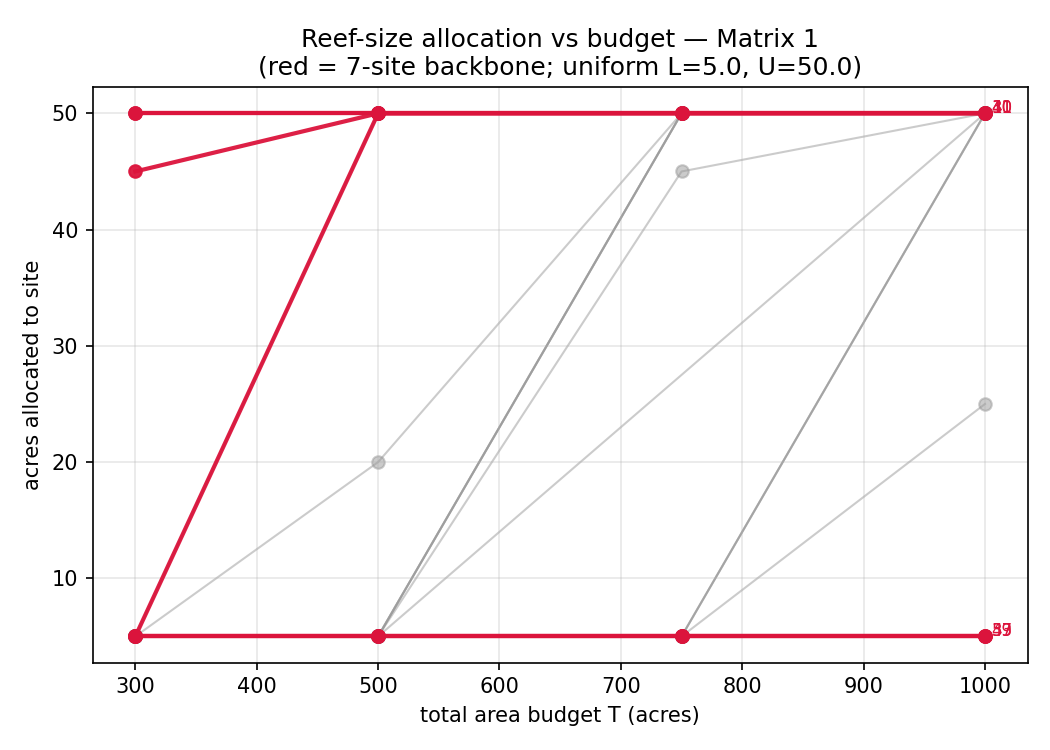
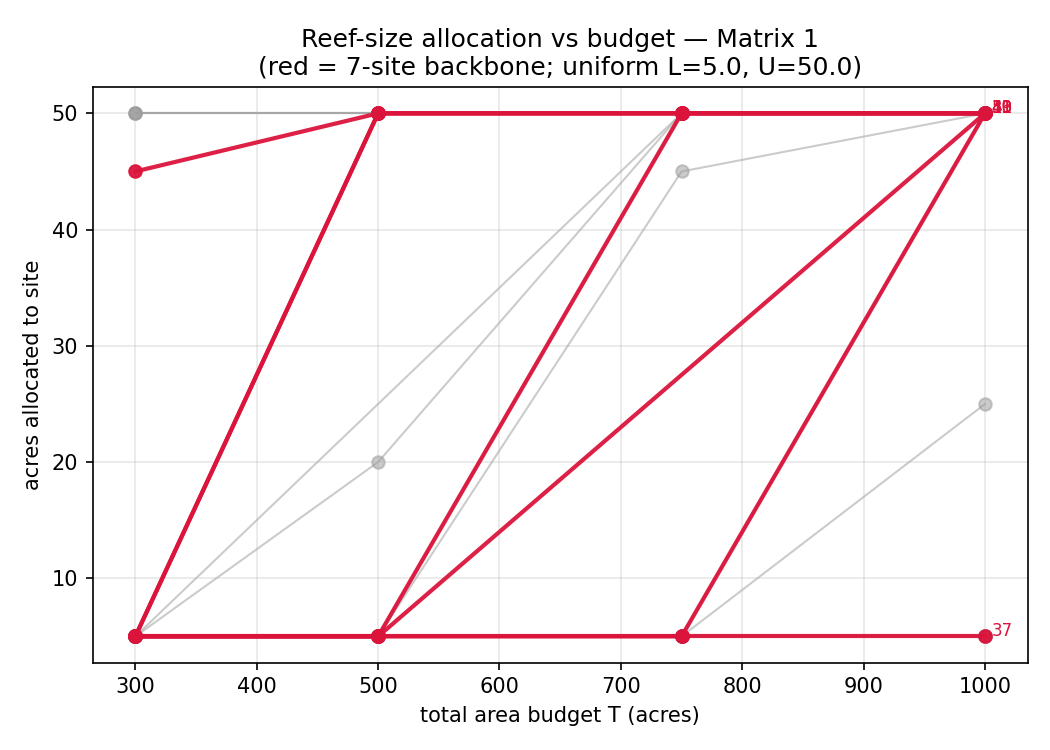
added experiments with external flow on--surrogate

diff --git a/scripts/surrogate_fidelity.py b/scripts/surrogate_fidelity.py
@@ -1,0 +1,173 @@
+# scripts/surrogate_fidelity.py
+#
+# Surrogate-fidelity experiments for the ORSSP paper.
+#
+#   1. CONSTANT Pe: score the MIQP-selected set under the true JARS ODE F(S),
+#      compare to the best ODE heuristic.
+#
+#   2. REALISTIC (site-specific) Pe: three ways to weight the source term
+#      W[l,k] = P[l,k] * A_l^1.72:
+#         (a) frozen single A_*                        -- current surrogate
+#         (b) site-specific A_l, ISOLATED candidate    -- knowable a priori
+#         (c) site-specific A_l, ALL-49 metapopulation -- CIRCULAR (uses the ODE
+#                                                         answer); upper bound only
+#
+#   3. A_* sensitivity: does the MIQP selection change with A_*?
+#
+#   4. ITERATED surrogate (RECOMMENDED for realistic Pe):
+#         A_l <- isolated densities
+#         repeat: solve MIQP -> run ODE on THAT selected set -> read the actual
+#                 A_l for the selected sites -> re-weight -> re-solve
+#      Non-circular: each A_l comes from a set the surrogate itself chose, not
+#      from a pre-computed all-49 solve. Converges in 1-2 passes.
+#
+# Run from the repo root:
+#   python -m scripts.surrogate_fidelity
+
+import numpy as np
+import config
+from src.model.jars_ode import load_connectivity, sitetoindex, odesys, setP0
+from scipy.integrate import solve_ivp
+from scipy.optimize import milp, LinearConstraint, Bounds
+from scipy.sparse import lil_matrix
+
+BEST_HEUR_CONST = {
+    "M1": [10,12,15,16,17,20,21,26,28,29,31,32,33,36,37,40,41,44,47,49,51,52,53,54,59],
+    "M2": [10,11,12,15,16,17,19,20,26,29,31,32,33,36,37,40,41,44,47,49,51,52,53,54,59],
+}
+BEST_HEUR_REAL = {
+    "M1": [4,6,10,15,19,20,21,24,27,30,31,32,36,37,38,39,40,41,47,49,51,52,53,55,60],
+    "M2": [1,4,6,10,18,19,20,21,24,30,31,35,36,37,38,39,40,41,42,47,49,53,55,57,60],
+}
+
+
+def _prep(mid):
+    conn, key = load_connectivity(config.MATRICES[mid])
+    m = ~np.isin(key, config.UNWANTED)
+    return key[m], conn[np.ix_(m, m)] * config.P1SCALING
+
+
+def solve_miqp(mid, source_weight, Pe, K=25):
+    lab, P = _prep(mid); n = len(lab)
+    W = P * source_weight[:, None]
+    lin = Pe + np.diag(W)
+    pairs = [(i, j) for i in range(n) for j in range(n) if i != j and W[i, j] != 0]
+    nv = n + len(pairs); c = np.zeros(nv); c[:n] = -lin
+    for p, (i, j) in enumerate(pairs):
+        c[n + p] = -W[i, j]
+    cons = [LinearConstraint(lil_matrix(np.r_[np.ones(n), np.zeros(len(pairs))].reshape(1, -1)), K, K)]
+    Ay = lil_matrix((2 * len(pairs), nv))
+    for p, (i, j) in enumerate(pairs):
+        Ay[2*p, n+p] = 1; Ay[2*p, i] = -1
+        Ay[2*p+1, n+p] = 1; Ay[2*p+1, j] = -1
+    cons.append(LinearConstraint(Ay, -np.inf, 0))
+    ig = np.zeros(nv); ig[:n] = 1
+    r = milp(c=c, constraints=cons, integrality=ig,
+             bounds=Bounds(np.zeros(nv), np.ones(nv)), options={"time_limit": 180})
+    return sorted(int(lab[i]) for i in range(n) if r.x[i] > 0.5)
+
+
+def ode_on(sites, mid, pe_mode, tmax=1000):
+    """Return (F(S), {site: equilibrium adult density}) for the selected set."""
+    conn, key = load_connectivity(config.MATRICES[mid])
+    idx = sitetoindex(key, np.array(sites, int)); n = len(idx)
+    P1 = config.P1SCALING * conn[np.ix_(idx, idx)]
+    P0 = config.CONST_P0 * np.ones(n) if pe_mode == "constant" else setP0(key[idx])
+    v0 = np.zeros(4*n); v0[n:2*n] = config.IC["A"]; v0[2*n:3*n] = config.IC["R"]
+    sol = solve_ivp(lambda t, v: odesys(t, v, P0, P1, config.MU*np.ones(n)),
+                    [0, tmax], v0, method="RK45", rtol=1e-6)
+    Af = np.maximum(sol.y[n:2*n, -1], 0.0)
+    return float(Af.sum()), {int(key[idx][i]): float(Af[i]) for i in range(n)}
+
+
+def isolated_A(mid, pe_mode):
+    """Each candidate's equilibrium adult density run ALONE (self-recruitment only)."""
+    lab, P = _prep(mid); vals = []
+    for i, s in enumerate(lab):
+        P1 = np.array([[P[i, i]]])
+        P0 = np.array([config.CONST_P0]) if pe_mode == "constant" else setP0(np.array([s])).astype(float)
+        v0 = np.array([0, config.IC["A"], config.IC["R"], 0], float)
+        sol = solve_ivp(lambda t, v: odesys(t, v, P0, P1, config.MU*np.ones(1)),
+                        [0, 1000], v0, method="RK45", rtol=1e-6)
+        vals.append(max(float(sol.y[1, -1]), 0.0))
+    return lab, np.array(vals)
+
+
+def metapop_A(mid, pe_mode):
+    """All-49 coupled equilibrium densities. CIRCULAR: uses the ODE answer."""
+    lab, P = _prep(mid); n = len(lab)
+    P0 = config.CONST_P0*np.ones(n) if pe_mode == "constant" else setP0(lab)
+    v0 = np.zeros(4*n); v0[n:2*n] = config.IC["A"]; v0[2*n:3*n] = config.IC["R"]
+    sol = solve_ivp(lambda t, v: odesys(t, v, P0, P, config.MU*np.ones(n)),
+                    [0, 1000], v0, method="RK45", rtol=1e-6)
+    return lab, np.maximum(sol.y[n:2*n, -1], 0.0)
+
+
+def iterated_surrogate(mid, max_iter=5, verbose=True):
+    """Fixed-point: isolated A_l -> solve -> ODE on that set -> re-weight -> re-solve."""
+    lab, P = _prep(mid); Pe = setP0(lab).astype(float)
+    l2i = {int(l): i for i, l in enumerate(lab)}
+    f_best, _ = ode_on(BEST_HEUR_REAL[mid], mid, "realistic")
+    _, Al = isolated_A(mid, "realistic")
+    prev = None
+    for it in range(max_iter):
+        pick = solve_miqp(mid, Al**config.ALPHA, Pe)
+        F, dens = ode_on(pick, mid, "realistic")
+        if verbose:
+            tag = "  (converged)" if prev == tuple(pick) else ""
+            print(f"     iter {it}: F={F:.4f}  gap={100-100*F/f_best:5.2f}%  "
+                  f"|set∩best|={len(set(pick)&set(BEST_HEUR_REAL[mid]))}/25{tag}")
+        if prev == tuple(pick):
+            return pick, F, f_best
+        prev = tuple(pick)
+        for s, d in dens.items():
+            Al[l2i[s]] = d          # selected sites get their ACTUAL density
+    return pick, F, f_best
+
+
+def main():
+    A = config.A_STAR; ALPHA = config.ALPHA
+
+    print("="*72); print("1) SURROGATE FIDELITY under CONSTANT Pe"); print("="*72)
+    for mid in ("M1", "M2"):
+        lab, _ = _prep(mid)
+        pick = solve_miqp(mid, np.full(len(lab), A**ALPHA), config.CONST_P0*np.ones(len(lab)))
+        f_m, _ = ode_on(pick, mid, "constant"); f_h, _ = ode_on(BEST_HEUR_CONST[mid], mid, "constant")
+        print(f"  {mid}: F(MIQP)={f_m:.4f}  F(best heur)={f_h:.4f}  gap={100-100*f_m/f_h:.2f}%")
+
+    print("\n"+"="*72); print("2) REALISTIC Pe -- three source-weightings"); print("="*72)
+    for mid in ("M1", "M2"):
+        lab, _ = _prep(mid); Pe = setP0(lab).astype(float)
+        _, Al_iso = isolated_A(mid, "realistic")
+        _, Al_meta = metapop_A(mid, "realistic")
+        f_best, _ = ode_on(BEST_HEUR_REAL[mid], mid, "realistic")
+        print(f"\n  {mid}: best heuristic F={f_best:.4f}  "
+              f"({int((Al_iso>1e-6).sum())}/49 establish in isolation)")
+        for name, w in [
+            ("frozen A_*                          ", np.full(len(lab), A**ALPHA)),
+            ("site-specific A_l (isolated)        ", Al_iso**ALPHA),
+            ("site-specific A_l (all-49, CIRCULAR)", Al_meta**ALPHA),
+        ]:
+            pick = solve_miqp(mid, w, Pe); f, _ = ode_on(pick, mid, "realistic")
+            print(f"     {name}: F={f:.4f}  gap={100-100*f/f_best:6.2f}%")
+
+    print("\n"+"="*72); print("3) A_* SENSITIVITY"); print("="*72)
+    for pe_mode in ("constant", "realistic"):
+        for mid in ("M1", "M2"):
+            lab, _ = _prep(mid)
+            Pe = config.CONST_P0*np.ones(len(lab)) if pe_mode == "constant" else setP0(lab).astype(float)
+            picks = {a: tuple(solve_miqp(mid, np.full(len(lab), a**ALPHA), Pe))
+                     for a in (0.02, 0.0435, 0.05675, 0.2, 0.5)}
+            u = len(set(picks.values()))
+            print(f"  {pe_mode:9s} {mid}: {u} distinct selection(s) -> "
+                  f"{'SENSITIVE' if u>1 else 'invariant'}")
+
+    print("\n"+"="*72); print("4) ITERATED SURROGATE under REALISTIC Pe (non-circular)"); print("="*72)
+    for mid in ("M1", "M2"):
+        print(f"\n  {mid}:")
+        pick, F, f_best = iterated_surrogate(mid)
+        print(f"     converged: F={F:.4f}  gap={100-100*F/f_best:.2f}%  ({len(pick)} sites)")
+
+
+if __name__ == "__main__":
+    main()

diff --git a/config.py b/config.py
@@ -44,7 +44,7 @@ CANDIDATE_SITES = np.array([
 TMAX      = 1000      # integration horizon, in model YEARS
 P1SCALING = 0.5       # scaling applied to raw connectivity -> internal supply P1
 CONST_P0  = 170.0     # constant external supply (constant-forcing runs)
-A_STAR    = 0.05675   # median single-reef equilibrium adult density
+A_STAR    = 0.05675   # median 49 metapopulation adult density.
 ALPHA     = 1.72      # gamete/fertilisation density exponent
 MU        = 0.4       # adult mortality rate used by the evaluator
 K         = 25        # number of reefs to select